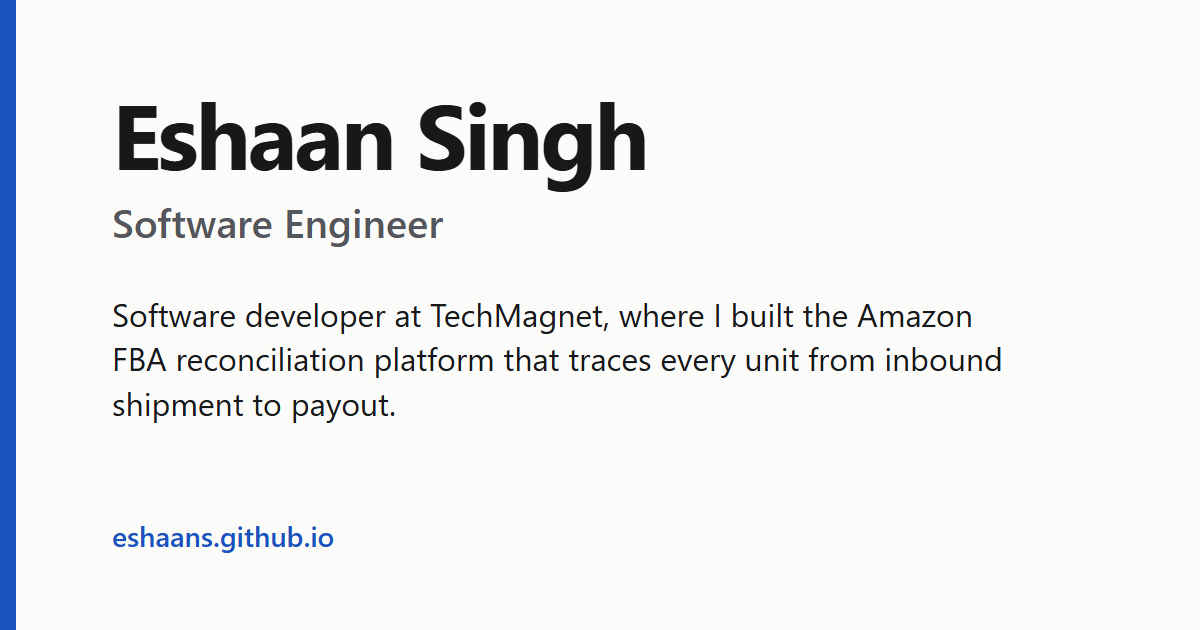
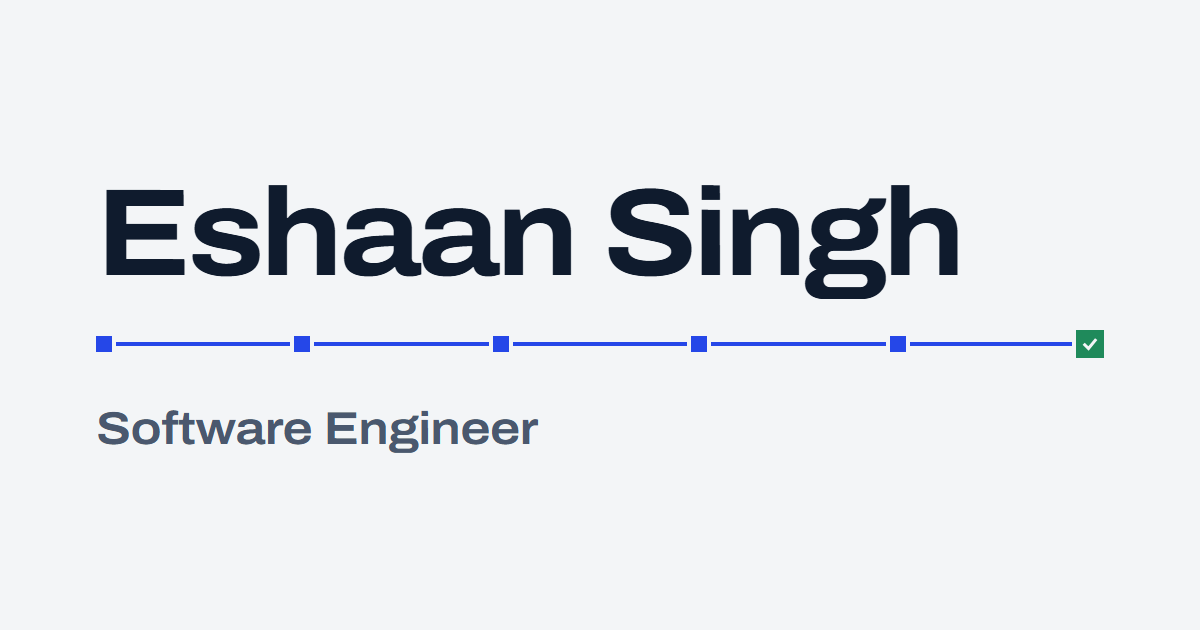
Ledger redesign: TrainingARK screenshot, critique fixes, og image, README
- TrainingARK featured card is now led by a screenshot of the live home
  page (scenarios list loaded); card marked "Prototype"
- Capture script can target one demo by name
- Critique fixes: remove the hollow timeline markers on past roles,
  outline the nav Resume button so the hero has the one filled button,
  use the same column split for both featured cards, tighten cards that
  end in a "Show more" toggle
- Regenerate public/og.png in the new identity (name and role only)
- README: fonts, screenshot script, resume and link preview notes

diff --git a/app/globals.css b/app/globals.css
@@ -216,7 +216,17 @@ p, li, dd { text-wrap: pretty; }
 
 .nav li a:hover { color: var(--ink); }
 
-.nav .btn { flex: none; }
+/* Outlined here; the hero carries the one filled button. */
+.nav .btn {
+  flex: none;
+  border-color: var(--cobalt);
+  color: var(--cobalt);
+}
+
+.nav .btn:hover {
+  background: var(--cobalt);
+  color: var(--on-cobalt);
+}
 
 /* Hero */
 .hero {
@@ -484,7 +494,10 @@ h3 {
 .card-text { max-width: var(--measure); }
 
 /* "Show more" toggle: a native <details>, so it works without JavaScript. */
-.more { margin-top: 0.5rem; }
+.more {
+  margin-top: 0.5rem;
+  margin-bottom: -0.625rem;
+}
 
 .more summary {
   display: inline-flex;
@@ -683,22 +696,16 @@ h3 {
   .role:first-child::before { top: 1.75rem; }
   .role:last-child::before { bottom: auto; height: 1.75rem; }
 
-  /* One marker per role on the rule; the current role's is filled. */
-  .role::after {
+  /* Only the current role is marked on the rule. */
+  .role-current::after {
     content: "";
     position: absolute;
     top: 1.75rem;
     left: calc(var(--rail) + 1.25rem);
     width: 0.5rem;
     height: 0.5rem;
-    background: var(--paper);
-    box-shadow: inset 0 0 0 1px var(--rule-strong);
-    translate: -50% -50%;
-  }
-
-  .role-current::after {
     background: var(--cobalt);
-    box-shadow: none;
+    translate: -50% -50%;
   }
 
   .role-when {
@@ -737,11 +744,13 @@ h3 {
 }
 
 .feature h3 { font-size: clamp(1.25rem, 1.1rem + 1cqi, 1.75rem); }
-.feature-head .shot { margin-top: 0.5rem; }
+/* A featured card with a screenshot is led by it, like the cards in tier two. */
+.feature-head .shot { margin-bottom: 0.5rem; }
 
 @container (min-width: 46rem) {
+  /* Same split for every featured card, so their bullets line up. */
   .feature {
-    grid-template-columns: minmax(0, 0.8fr) minmax(0, 1.4fr);
+    grid-template-columns: minmax(0, 1fr) minmax(0, 1.2fr);
     grid-template-rows: auto 1fr;
     gap: 1rem 2.5rem;
   }

diff --git a/app/page.tsx b/app/page.tsx
@@ -146,7 +146,7 @@ export default function Home() {
             <li><a href="#projects">Projects</a></li>
             <li><a href="#skills">Skills</a></li>
           </ul>
-          <ExternalLink className="btn btn-primary" href={site.resume}>Resume</ExternalLink>
+          <ExternalLink className="btn" href={site.resume}>Resume</ExternalLink>
         </div>
       </nav>
 
@@ -214,10 +214,10 @@ export default function Home() {
               {large.map((project) => (
                 <article className="feature" key={project.name}>
                   <div className="feature-head">
-                    <ProjectHead project={project} />
                     {shots[project.name] && (
-                      <Screenshot shot={shots[project.name]} sizes="(min-width: 56rem) 24rem, 100vw" />
+                      <Screenshot shot={shots[project.name]} sizes="(min-width: 56rem) 27rem, 100vw" />
                     )}
+                    <ProjectHead project={project} />
                   </div>
                   <div className="feature-body">
                     <Bullets items={project.bullets} />

diff --git a/app/screens.ts b/app/screens.ts
@@ -14,9 +14,14 @@ export type Shot = {
 export const featured = ["signal-router", "TrainingARK"];
 
 // Screenshots captured from the live demos by scripts/capture-screenshots.mjs.
-// TrainingARK has a live demo but no screenshot yet: its home page was returning
-// an error when these were captured. Add it here once the demo loads again.
+// The alt text describes what each capture actually shows; update it when recapturing.
 export const shots: Record<string, Shot> = {
+  TrainingARK: {
+    base: "/shots/trainingark",
+    width: 1200,
+    height: 750,
+    alt: "TrainingARK home page: a list of the newest scenarios, each marked Beginner and tagged with its commanders, beside a sidebar with Home, Create, Tutorial, Rules & Banlist and About.",
+  },
   FinSight: {
     base: "/shots/finsight",
     width: 1200,

diff --git a/app/content.ts b/app/content.ts
@@ -128,6 +128,7 @@ export const projects: Project[] = [
   },
   {
     name: "TrainingARK",
+    note: "Prototype",
     bullets: [
       "Conceived and built solo, from an ambiguous idea to a deployed product, with no spec handed down.",
       "Tracked 24 zones across 4 players live in a centralized Zustand store exposing 50+ actions.",

diff --git a/README.md b/README.md
@@ -6,11 +6,11 @@ Live at [eshaans.github.io](https://eshaans.github.io)
 
 ## About
 
-Software developer in the Seattle area, open to relocating to San Francisco.
+Software developer in the Seattle area, open to relocating.
 
 ## What is on the site
 
-- **Experience** - one card per role, newest first
+- **Experience** - one card per role, newest first, with a date column
 - **Projects** - signal-router, TrainingARK, FinSight, Mod the Agents, MarketMind, SentiPulse, ClubHub, OpenWillis
 - **Skills**
 
@@ -18,21 +18,42 @@ Each card shows its first 4 bullets. Any further bullets sit behind a "Show more
 
 All of the copy lives in [`app/content.ts`](app/content.ts). Edit that file to change what the page says.
 
-## Resume (action needed)
+## Design
 
-The Resume button on the site links to `/resume.pdf`. That file is not in the repo yet, so the button returns a 404 until you add it.
+The design tokens (colors, type, spacing, the one radius and the one shadow) are documented at the top of [`app/globals.css`](app/globals.css).
 
-Drop your resume at:
+### Fonts
 
+Two families, both loaded and self-hosted at build time by `next/font` in [`app/layout.tsx`](app/layout.tsx):
+
+- **Archivo** for display: the name, headings, role and project names, and figures. Its width axis is loaded so the CSS can set it slightly wide (`font-stretch: 112%`).
+- **Public Sans** for all other text.
+
+To change either, swap the import in `app/layout.tsx`. The CSS reads them through `--font-display` and `--font-text`.
+
+### Project screenshots
+
+The screenshots in the Projects section are real captures of the live demos, stored as WebP in `public/shots/` at 480, 800 and 1200 pixels wide.
+
+To recapture them after a demo changes:
+
+```bash
+npm install --no-save playwright-core
+node scripts/capture-screenshots.mjs              # all three
+node scripts/capture-screenshots.mjs trainingark  # only the ones named
 ```
-public/resume.pdf
-```
 
-The filename has to be exactly `resume.pdf`. Commit it and push to `main`, and the button works.
+The script drives the Microsoft Edge already installed on the machine (set `PLAYWRIGHT_CHANNEL=chrome` for Chrome). `--no-save` keeps Playwright out of `package.json`, so the site's own install and the deploy are unaffected.
+
+Look at each image before committing it: a demo that is asleep, erroring or showing a sign-in page is captured exactly as it looks. If what a screenshot shows has changed, update its alt text in [`app/screens.ts`](app/screens.ts). That file also decides which projects get the large cards.
+
+## Resume
+
+The Resume buttons link to `/resume.pdf`, which is `public/resume.pdf` in this repo. To update it, replace that file. The filename has to stay exactly `resume.pdf`.
 
 ## Link preview image
 
-`public/og.png` (1200x630) is the image shown when the site is shared on LinkedIn, Slack, X and similar. It contains the name, role and the one-line summary as text, so if you change the summary in `app/content.ts`, replace this image too.
+`public/og.png` (1200x630) is the image shown when the site is shared on LinkedIn, Slack, X and similar. It shows the name and role only, so it does not need to change when the summary does. Replace it if the name, role or the look of the site changes.
 
 ## Tech Stack
 
